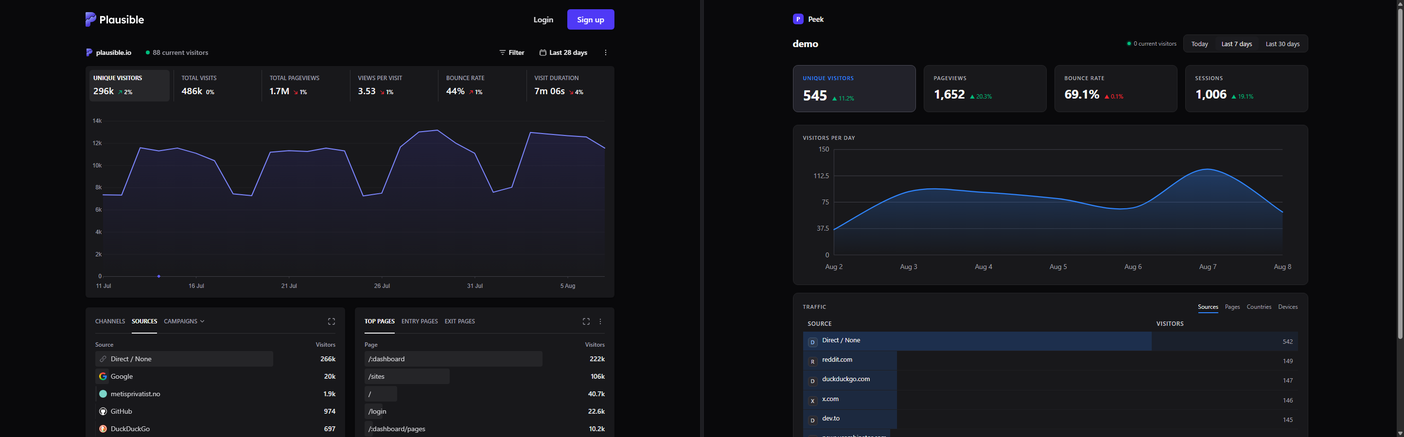
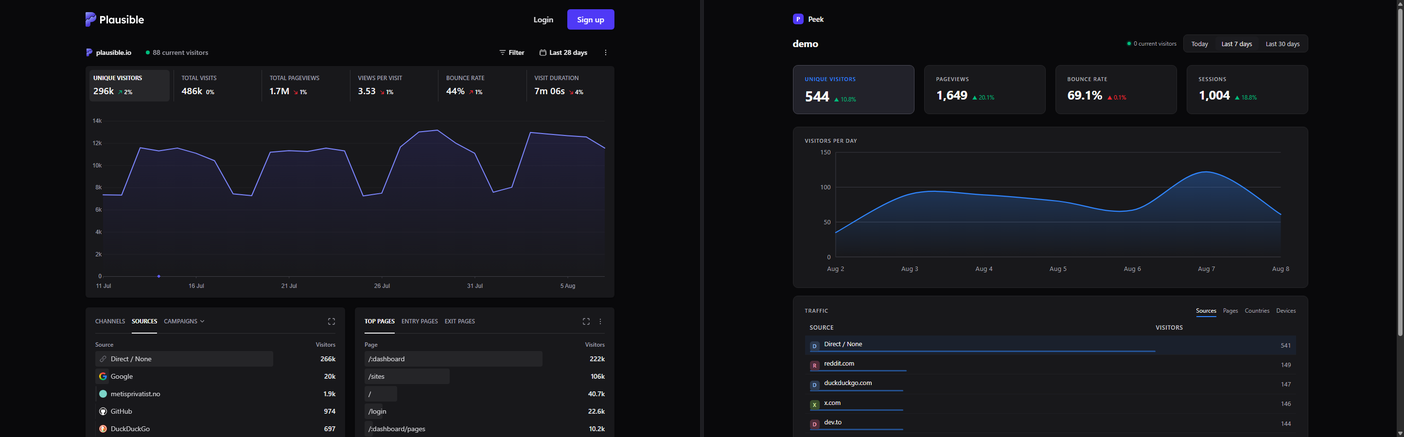
round 9: share bars -> thin bottom-aligned mini-bars (kills vertical artifact strip), hue-coded monogram tiles (D-collision fixed, top row stays blue), y-axis ticks now step*g (kills 37.5 fractional labels), airier desktop card/KPI padding

diff --git a/views/dashboard.html b/views/dashboard.html
@@ -21,8 +21,8 @@ body{background:var(--bg);color:var(--txt);font:14px/1.5 system-ui,-apple-system
 .ranges a{color:#d8d8df;text-decoration:none;padding:5px 13px;border-radius:6px;font-size:13px;transition:background .15s,color .15s}
 .ranges a:hover{color:var(--txt)}
 .ranges a.on{background:var(--panel2);color:var(--txt)}
-.kpis{display:grid;grid-template-columns:repeat(4,1fr);gap:16px;margin-bottom:26px}
-.kpi{background:var(--panel);border:1px solid var(--line);border-radius:10px;padding:18px 20px}
+.kpis{display:grid;grid-template-columns:repeat(4,1fr);gap:20px;margin-bottom:26px}
+.kpi{background:var(--panel);border:1px solid var(--line);border-radius:10px;padding:20px 24px}
 .kpi:first-child{background:#22222a;border-color:#4a4a55}
 .kpi:first-child h3{color:var(--acc)}
 .kpi h3{font-size:11px;text-transform:uppercase;letter-spacing:.09em;color:#b4b4bc;font-weight:500;margin-bottom:9px}
@@ -31,7 +31,7 @@ body{background:var(--bg);color:var(--txt);font:14px/1.5 system-ui,-apple-system
 .kpi:first-child .num{font-size:30px}
 .tr{display:inline-block;font-size:12px;font-variant-numeric:tabular-nums}
 .tr.up{color:var(--up)}.tr.down{color:var(--down)}.tr.flat{color:var(--dim)}
-.card{background:var(--panel);border:1px solid var(--line);border-radius:10px;padding:18px 20px;margin-bottom:16px}
+.card{background:var(--panel);border:1px solid var(--line);border-radius:10px;padding:20px 24px;margin-bottom:16px}
 .cardhead{display:flex;align-items:baseline;justify-content:space-between;gap:12px;margin-bottom:12px}
 .card h2{font-size:11px;text-transform:uppercase;letter-spacing:.09em;color:#b4b4bc;font-weight:500}
 .tabs{display:flex;gap:14px}
@@ -48,7 +48,7 @@ tbody tr.top td{background:rgba(48,133,254,.08)}
 td:first-child{color:var(--txt)}
 td:last-child{text-align:right;font-variant-numeric:tabular-nums;color:var(--mut)}
 tr:last-child td{border-bottom:none}
-.bar{position:absolute;left:0;top:0;bottom:0;background:rgba(48,133,254,.16);z-index:0}
+.bar{position:absolute;left:10px;bottom:5px;height:3px;border-radius:2px;background:rgba(48,133,254,.5);z-index:0}
 .mono{display:inline-flex;width:20px;height:20px;border-radius:5px;background:#2a2a31;border:1px solid #3a3a42;color:#d4d4d8;align-items:center;justify-content:center;font-size:11px;font-weight:600;margin-right:10px;vertical-align:-4px;position:relative;z-index:1}
 tr.top .mono{background:#2d3a4f;border-color:#3d5570;color:#9cc2ff}
 .nm{position:relative;z-index:1}

diff --git a/server.js b/server.js
@@ -64,11 +64,13 @@ function trend(cur, prev, invert) {
 function rows(data, nameKey, countKey = 'pv', headers = ['Source', 'Visitors']) {
   if (!data.length) return `<div class="empty">Nothing yet</div>`;
   const max = Math.max(1, data[0][countKey]);
+  const TINTS = [['#2d3a4f', '#9cc2ff'], ['#3a2d4f', '#c9a6ff'], ['#2d4f3a', '#9fe8b0'], ['#4f3a2d', '#ffcf9e'], ['#4f2d3a', '#ffa8c0'], ['#3a4f2d', '#d2e89f']];
   return `<table><thead><tr><th>${headers[0]}</th><th>${headers[1]}</th></tr></thead><tbody>` +
     data.map((r, i) => {
       const name = r[nameKey] || 'Direct / None';
       const pct = Math.round((r[countKey] / max) * 100);
-      return `<tr${i === 0 ? ' class="top"' : ''}><td><span class="bar" style="width:${pct}%"></span><span class="mono">${esc((name[0] || '?').toUpperCase())}</span><span class="nm">${esc(name)}</span></td><td class="n">${lib.fmt(r[countKey])}</td></tr>`;
+      const [bg, fg] = i === 0 ? TINTS[0] : TINTS[(name.length * 31 + name.charCodeAt(0)) % TINTS.length];
+      return `<tr${i === 0 ? ' class="top"' : ''}><td><span class="bar" style="width:${pct}%"></span><span class="mono" style="background:${bg};border-color:${bg};color:${fg}">${esc((name[0] || '?').toUpperCase())}</span><span class="nm">${esc(name)}</span></td><td class="n">${lib.fmt(r[countKey])}</td></tr>`;
     }).join('') + '</tbody></table>';
 }
 

diff --git a/lib.js b/lib.js
@@ -173,8 +173,8 @@ function buildChart(points, mode, { w, h, padL, padR, padT, padB, cls, gid, nX }
   const Y = v => padT + ih - (v / max) * ih;
   let out = '';
   out += `<line x1="${padL}" y1="${padT}" x2="${padL}" y2="${padT + ih}" stroke="#3a3a42" stroke-width="1"/>`;
-  for (let g = 0; g <= 4; g++) {
-    const v = (max / 4) * g, y = Y(v);
+  for (let g = 0; g * step <= max; g++) {
+    const v = step * g, y = Y(v);
     out += `<line x1="${padL}" y1="${y}" x2="${w - padR}" y2="${y}" stroke="#3a3a42" stroke-width="1"/>`;
     out += `<text x="${padL - 9}" y="${y + 4}" text-anchor="end">${fmt(v)}</text>`;
   }
